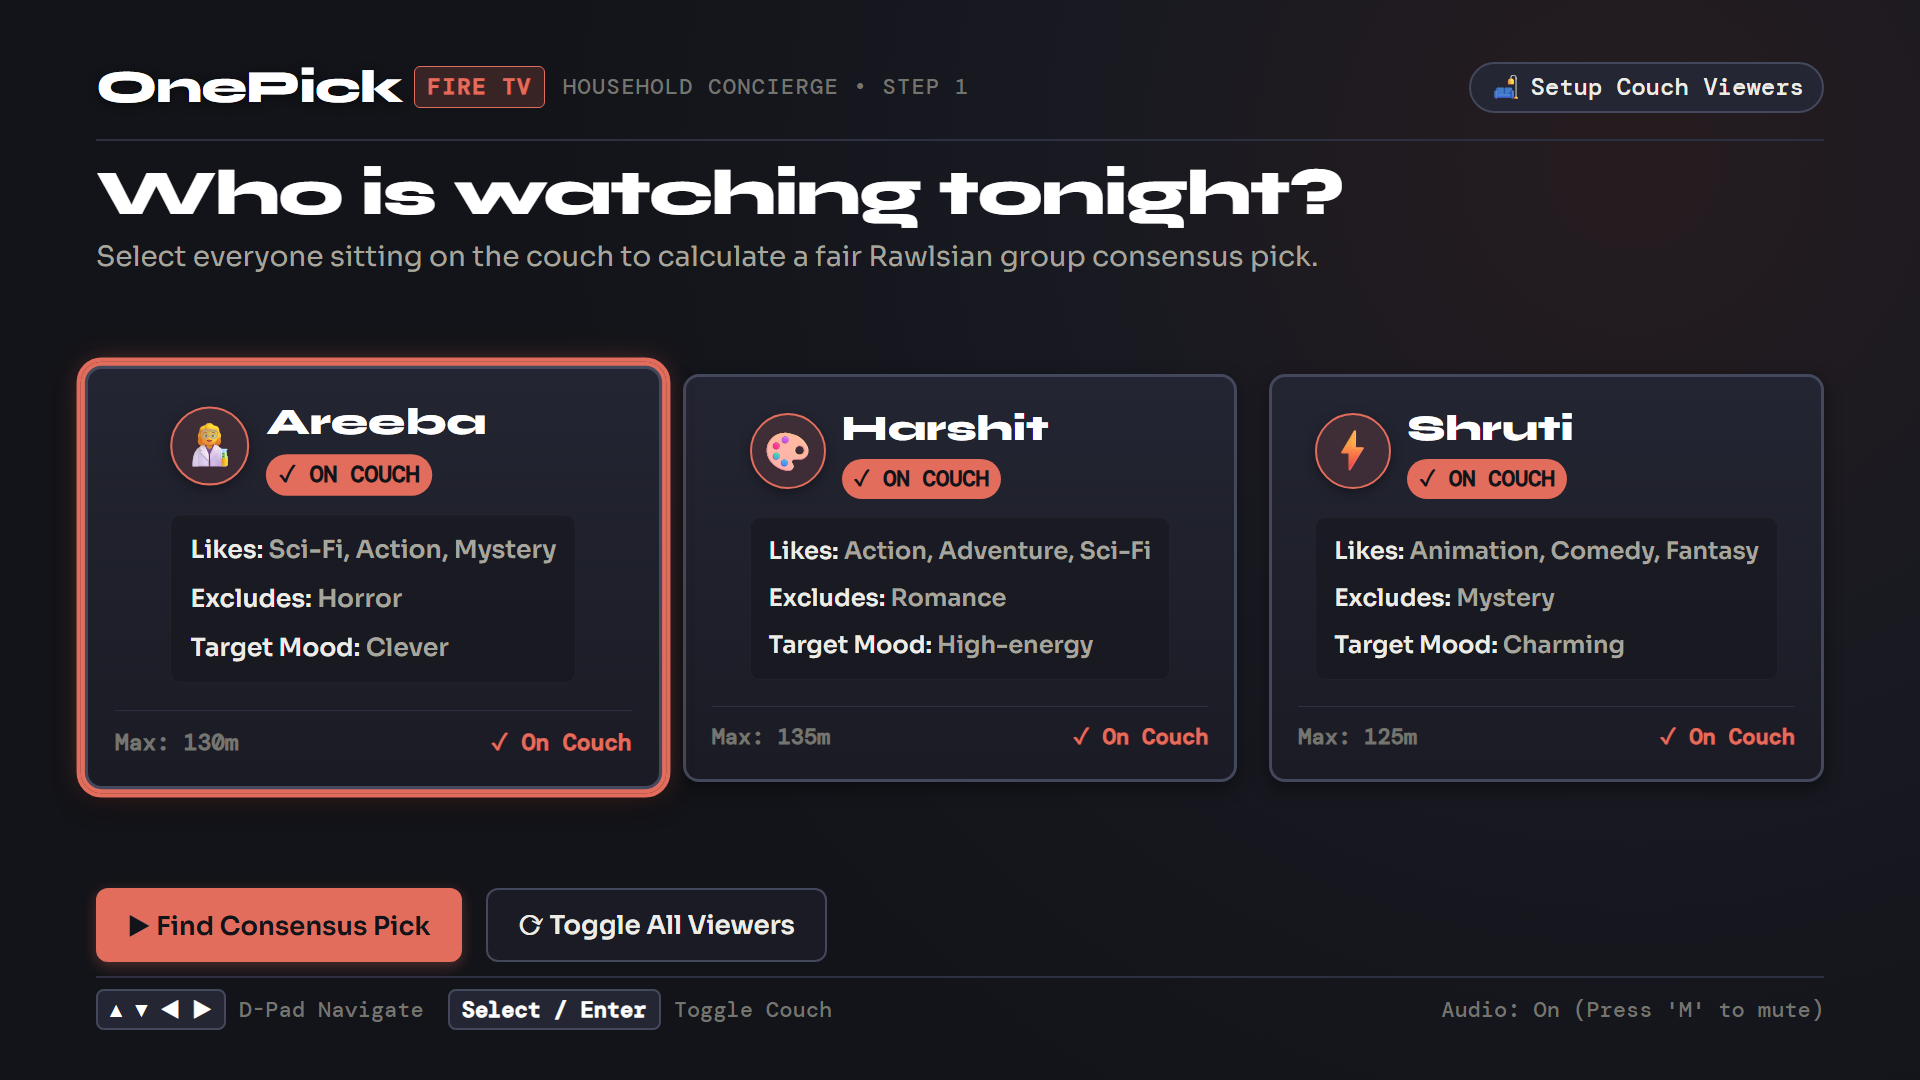
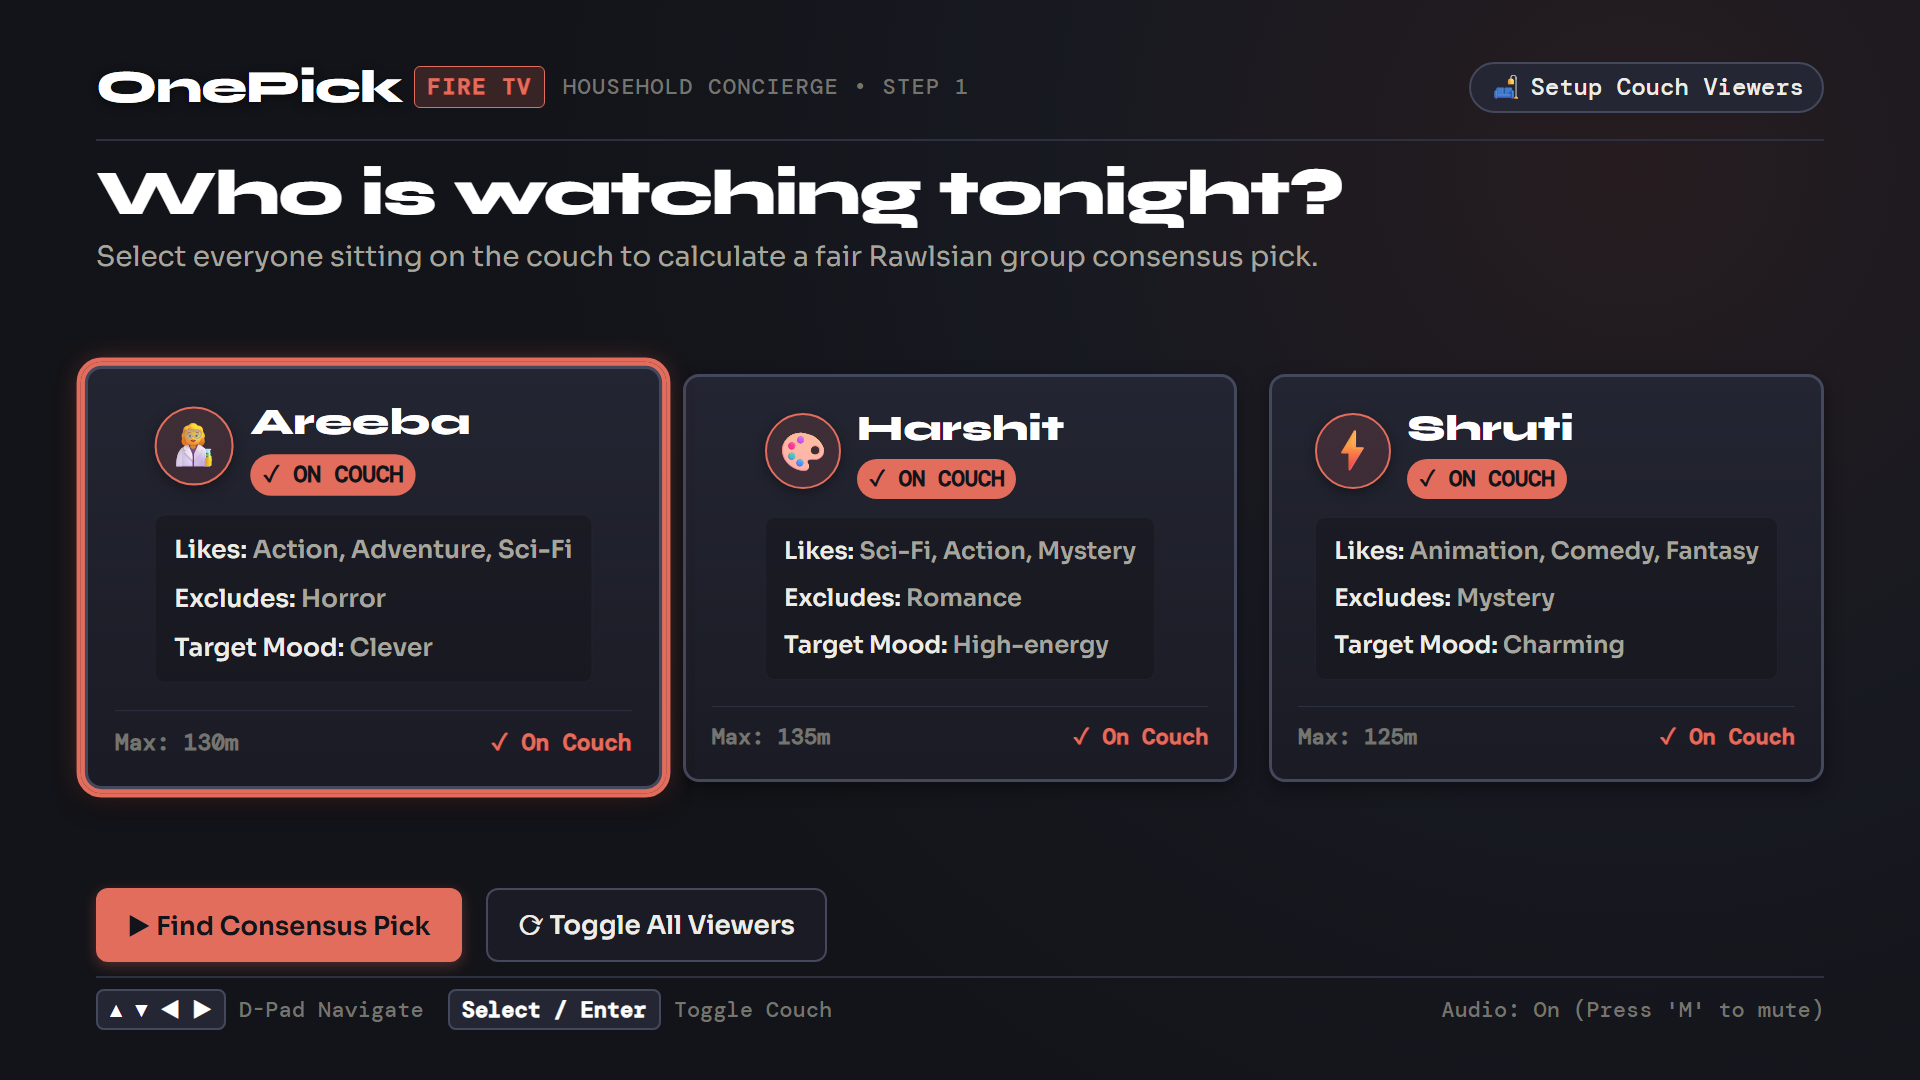
feat(viewers): swap preferred genres between Harshit and Areeba

diff --git a/docs/demo-script.md b/docs/demo-script.md
@@ -8,19 +8,19 @@
 ## 0:00 - 0:30 | The Household Dilemma (Problem)
 - **Visual:** Fire TV home screen with OnePick launched.
 - **Narrator:** 
-  > *"Every evening, millions of households sit down on the couch and waste 30 to 45 minutes scrolling endless streaming carousels because no single person can agree on what to watch. Areeba wants sci-fi, action, and clever mystery. Harshit wants high-energy adventure and action, while strictly excluding romance. Shruti wants charming animation and fantasy, while strictly excluding mystery. Traditional algorithms optimize for a single profile. OnePick solves the group consensus dilemma directly on your TV."*
+  > *"Every evening, millions of households sit down on the couch and waste 30 to 45 minutes scrolling endless streaming carousels because no single person can agree on what to watch. Areeba wants action, adventure, and sci-fi. Harshit wants sci-fi, action, and clever mystery, while strictly excluding romance. Shruti wants charming animation and fantasy, while strictly excluding mystery. Traditional algorithms optimize for a single profile. OnePick solves the group consensus dilemma directly on your TV."*
 
 ---
 
 ## 0:30 - 1:15 | Meet the Viewers & The Fairness Engine (Slices 1-3)
 - **Visual:** D-pad navigation highlights Areeba (👩🔬), Harshit (🎨), and Shruti's (⚡) profile cards.
 - **Narrator:**
-  > *"OnePick activates the present household members using simple remote navigation. Notice how each viewer has explicit preferences and dealbreakers—including genuine conflicting tastes where Areeba loves mystery while Shruti strictly excludes it.*
+  > *"OnePick activates the present household members using simple remote navigation. Notice how each viewer has explicit preferences and dealbreakers—including genuine conflicting tastes where Harshit loves mystery while Shruti strictly excludes it.*
   > *Instead of an unpredictable black box or simple majority vote, OnePick uses a deterministic **Rawlsian max-min fairness engine** running in the local Node server. It optimizes for the minimum satisfaction across the couch so nobody gets steamrolled."*
 - **Action:** Initial calculation renders on the TV display.
 - **Result:**
   - **Pick #1:** *Cosmic Drift: Web of Worlds* (117 min)
-  - **Group Fairness Score:** 75% (Areeba: 85%, Harshit: 90%, Shruti: 70% — Shruti is visibly the fairness bottleneck)
+  - **Group Fairness Score:** 75% (Areeba: 90%, Harshit: 85%, Shruti: 70% — Shruti is visibly the fairness bottleneck)
 
 ---
 
@@ -31,20 +31,20 @@
 - **Action:** Amazon Bedrock Converse API parses the utterance into a deterministic constraint patch: `{"watched": ["t-spider-verse"]}`.
 - **Result:**
   - **Pick #2:** *Spirit Realm Crossing* (125 min)
-  - **Group Fairness Score:** 61% (Areeba: 55%, Harshit: 70%, Shruti: 85% — Shruti's score jumps +15%!)
+  - **Group Fairness Score:** 61% (Areeba: 70%, Harshit: 55%, Shruti: 85% — Shruti's score jumps +15%!)
 - **Input 2 (Voice-style refine):**
   > *"Refinement 2: 'Shruti has to wake up early tomorrow, keep it under 100 minutes.'"*
 - **Action:** Bedrock applies `{"maxMinutes": 100}`.
 - **Result:**
   - **Final Consensus Pick:** *The Clever Burrower* (87 min)
-  - **Group Fairness Score:** 58% (Areeba: 50%, Harshit: 65%, Shruti: 95% — Shruti peaks at 95% satisfaction safely under the runtime cap!)
+  - **Group Fairness Score:** 58% (Areeba: 65%, Harshit: 50%, Shruti: 95% — Shruti peaks at 95% satisfaction safely under the runtime cap!)
 
 ---
 
 ## 2:00 - 2:30 | Transparent Consensus AI (Bedrock Explain)
 - **Visual:** Remote presses `Select` on "Why this pick?".
 - **Narrator:**
-  > *"No more arguments over compromises. Bedrock synthesizes the score breakdown into two plain-English sentences: explaining how the pick satisfies Shruti's animation and comedy preference with an exact charming mood match, while keeping Harshit and Areeba satisfied, all safely under the 100-minute cutoff."*
+  > *"No more arguments over compromises. Bedrock synthesizes the score breakdown into two plain-English sentences: explaining how the pick satisfies Shruti's animation and comedy preference with an exact charming mood match, while keeping Areeba and Harshit satisfied, all safely under the 100-minute cutoff."*
 
 ---
 
